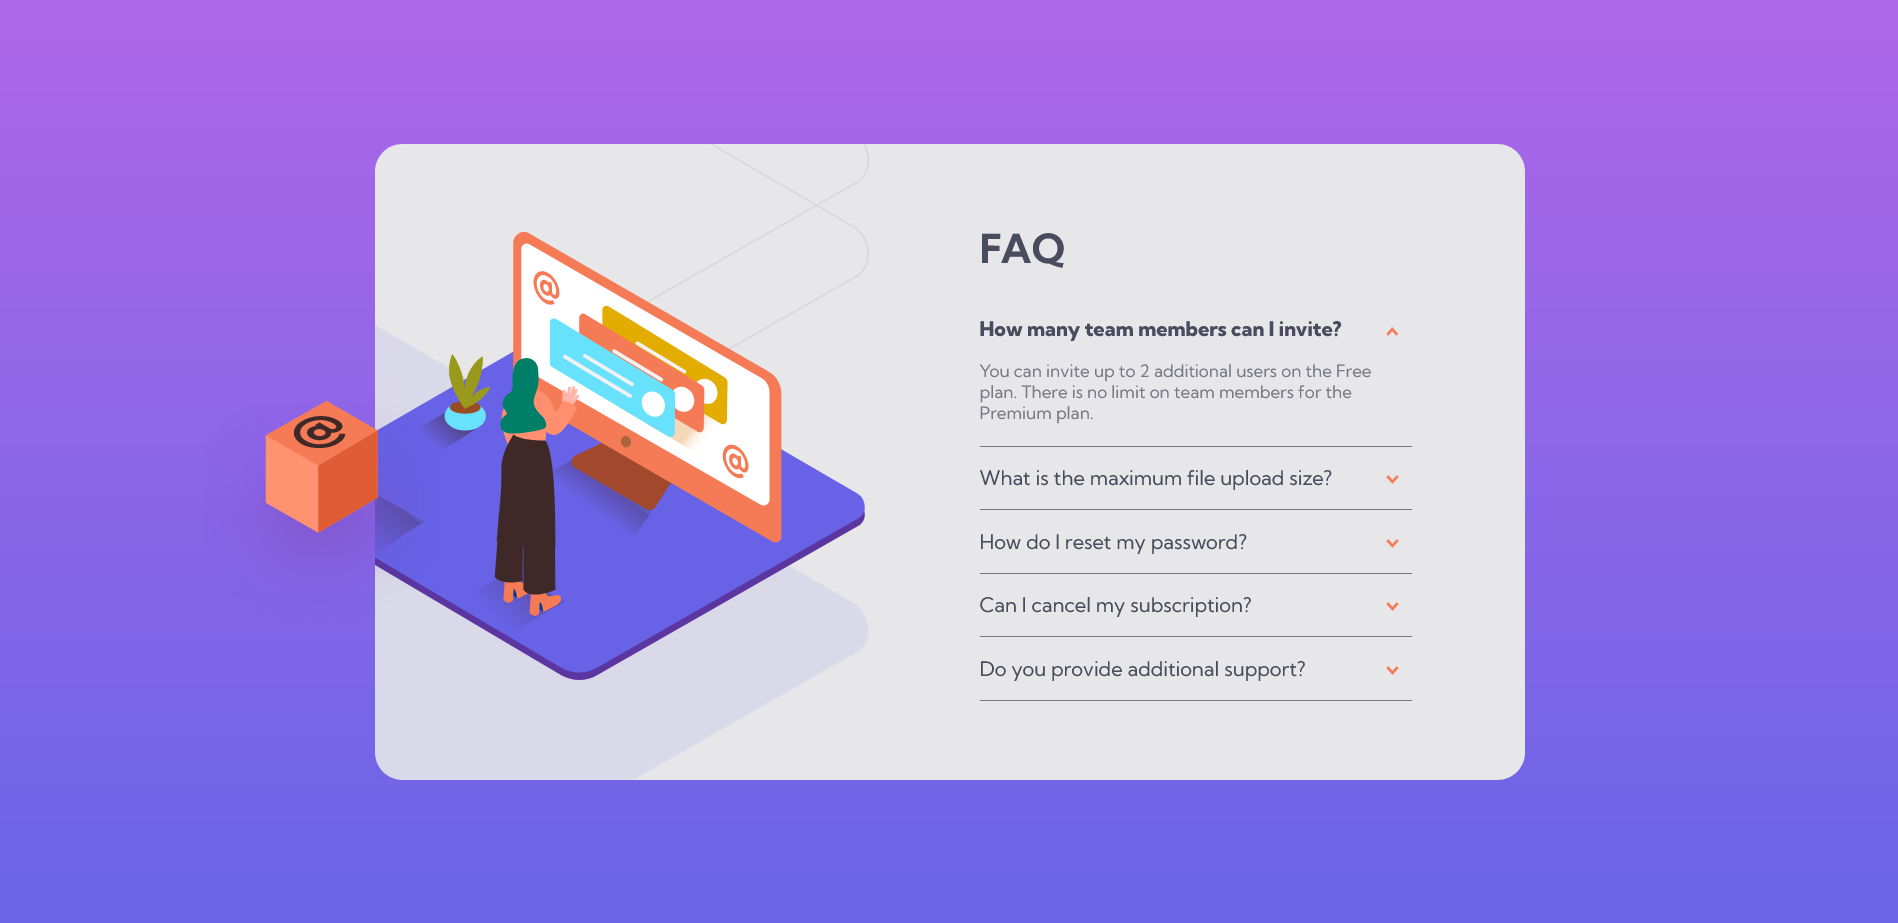
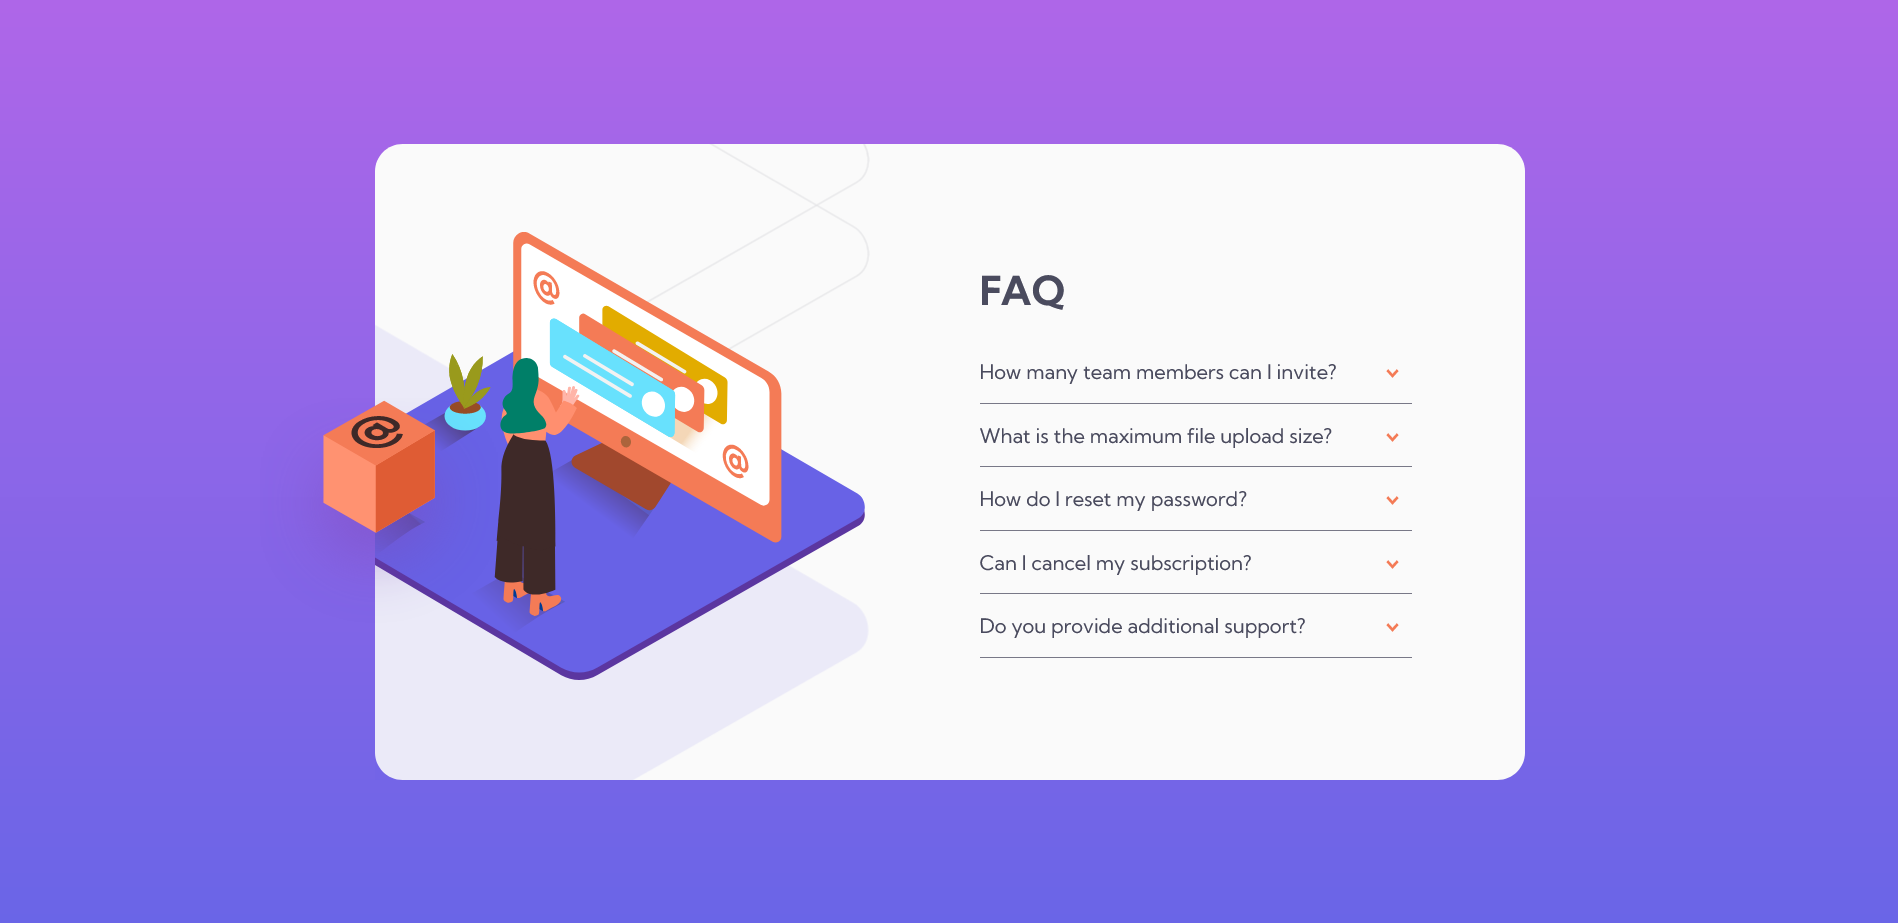
Add files via upload

diff --git a/index.html b/index.html
@@ -23,8 +23,8 @@
 
         <div class="faq">
           <div class="question">
-            <h3> How many team members can I invite?</h3>
-            <img src="./images/icon-arrow-down.svg" class="btn" id="1">
+            <h2> How many team members can I invite?</h2>
+            <img src="./images/icon-arrow-down.svg" class="btn" alt="btn1">
           </div>
           <div class="answer">
             <p> You can invite up to 2 additional users on the Free plan. There is no limit on
@@ -35,8 +35,8 @@
 
         <div class="faq">
           <div class="question">
-            <h3>What is the maximum file upload size?</h3>
-            <img src="./images/icon-arrow-down.svg" class="btn" id="1">
+            <h2>What is the maximum file upload size?</h2>
+            <img src="./images/icon-arrow-down.svg" class="btn" alt="btn2">
           </div>
           <div class="answer">
             <p> No more than 2GB. All files in your account must fit your allotted storage space.</p>
@@ -45,8 +45,8 @@
 
         <div class="faq">
           <div class="question">
-            <h3>How do I reset my password?</h3>
-            <img src="./images/icon-arrow-down.svg" class="btn" id="1">
+            <h2>How do I reset my password?</h2>
+            <img src="./images/icon-arrow-down.svg" class="btn" alt="btn3">
           </div>
           <div class="answer">
             <p> Click “Forgot password” from the login page or “Change password” from your profile page.
@@ -56,8 +56,8 @@
 
         <div class="faq">
           <div class="question">
-            <h3>Can I cancel my subscription?</h3>
-            <img src="./images/icon-arrow-down.svg" class="btn" id="1">
+            <h2>Can I cancel my subscription?</h2>
+            <img src="./images/icon-arrow-down.svg" class="btn" alt="btn4">
           </div>
           <div class="answer">
             <p>Yes! Send us a message and we’ll process your request no questions asked.</p>
@@ -66,8 +66,8 @@
 
         <div class="faq">
           <div class="question">
-            <h3>Do you provide additional support?</h3>
-            <img src="./images/icon-arrow-down.svg" class="btn" id="1">
+            <h2>Do you provide additional support?</h2>
+            <img src="./images/icon-arrow-down.svg" class="btn" alt="btn5">
           </div>
           <div class="answer">
             <p>Chat and email support is available 24/7. Phone lines are open during normal business hours.</p>

diff --git a/Style/index.css b/Style/index.css
@@ -52,7 +52,7 @@ main .card {
   height: 509px;
   display: grid;
   grid-template-columns: 45% 55%;
-  background: hsl(240deg, 5%, 91%);
+  background: rgb(250, 250, 250);
   border-radius: 22px;
   /*Media =>set card size*/
   /*set background img*/
@@ -165,16 +165,16 @@ main .card .card-right .faq .question {
   align-items: center;
   transition: 0.4s ease-in;
 }
-main .card .card-right .faq .question h3 {
+main .card .card-right .faq .question h2 {
   font-weight: 400;
   font-size: 1rem;
 }
 @media screen and (max-width: 990px) {
-  main .card .card-right .faq .question h3 {
+  main .card .card-right .faq .question h2 {
     font-size: 0.9rem;
   }
 }
-main .card .card-right .faq .question h3:hover {
+main .card .card-right .faq .question h2:hover {
   color: hsl(14deg, 88%, 65%);
   font-weight: bold;
 }
@@ -190,7 +190,7 @@ main .card .card-right .faq .answer {
   font-size: 0.85rem;
   color: hsl(240deg, 6%, 50%);
 }
-main .card .card-right .active .question h3 {
+main .card .card-right .active .question h2 {
   font-weight: 800;
 }
 main .card .card-right .active .answer {

diff --git a/Style/layout/_main.scss b/Style/layout/_main.scss
@@ -17,7 +17,7 @@ main {
     height: 509px;
     display: grid;
     grid-template-columns: 45% 55%;
-    background: $Lightgrayishblue;
+    background: rgb(250, 250, 250);
     border-radius: 22px;
 
     /*Media =>set card size*/
@@ -123,7 +123,7 @@ main {
           align-items: center;
           transition: 0.4s ease-in;
 
-          h3 {
+          h2 {
             font-weight: 400;
             font-size: 1rem;
 
@@ -154,7 +154,7 @@ main {
 
       /* active element to interact with js*/
 
-      .active .question h3 {
+      .active .question h2 {
         font-weight: 800;
       }
 
